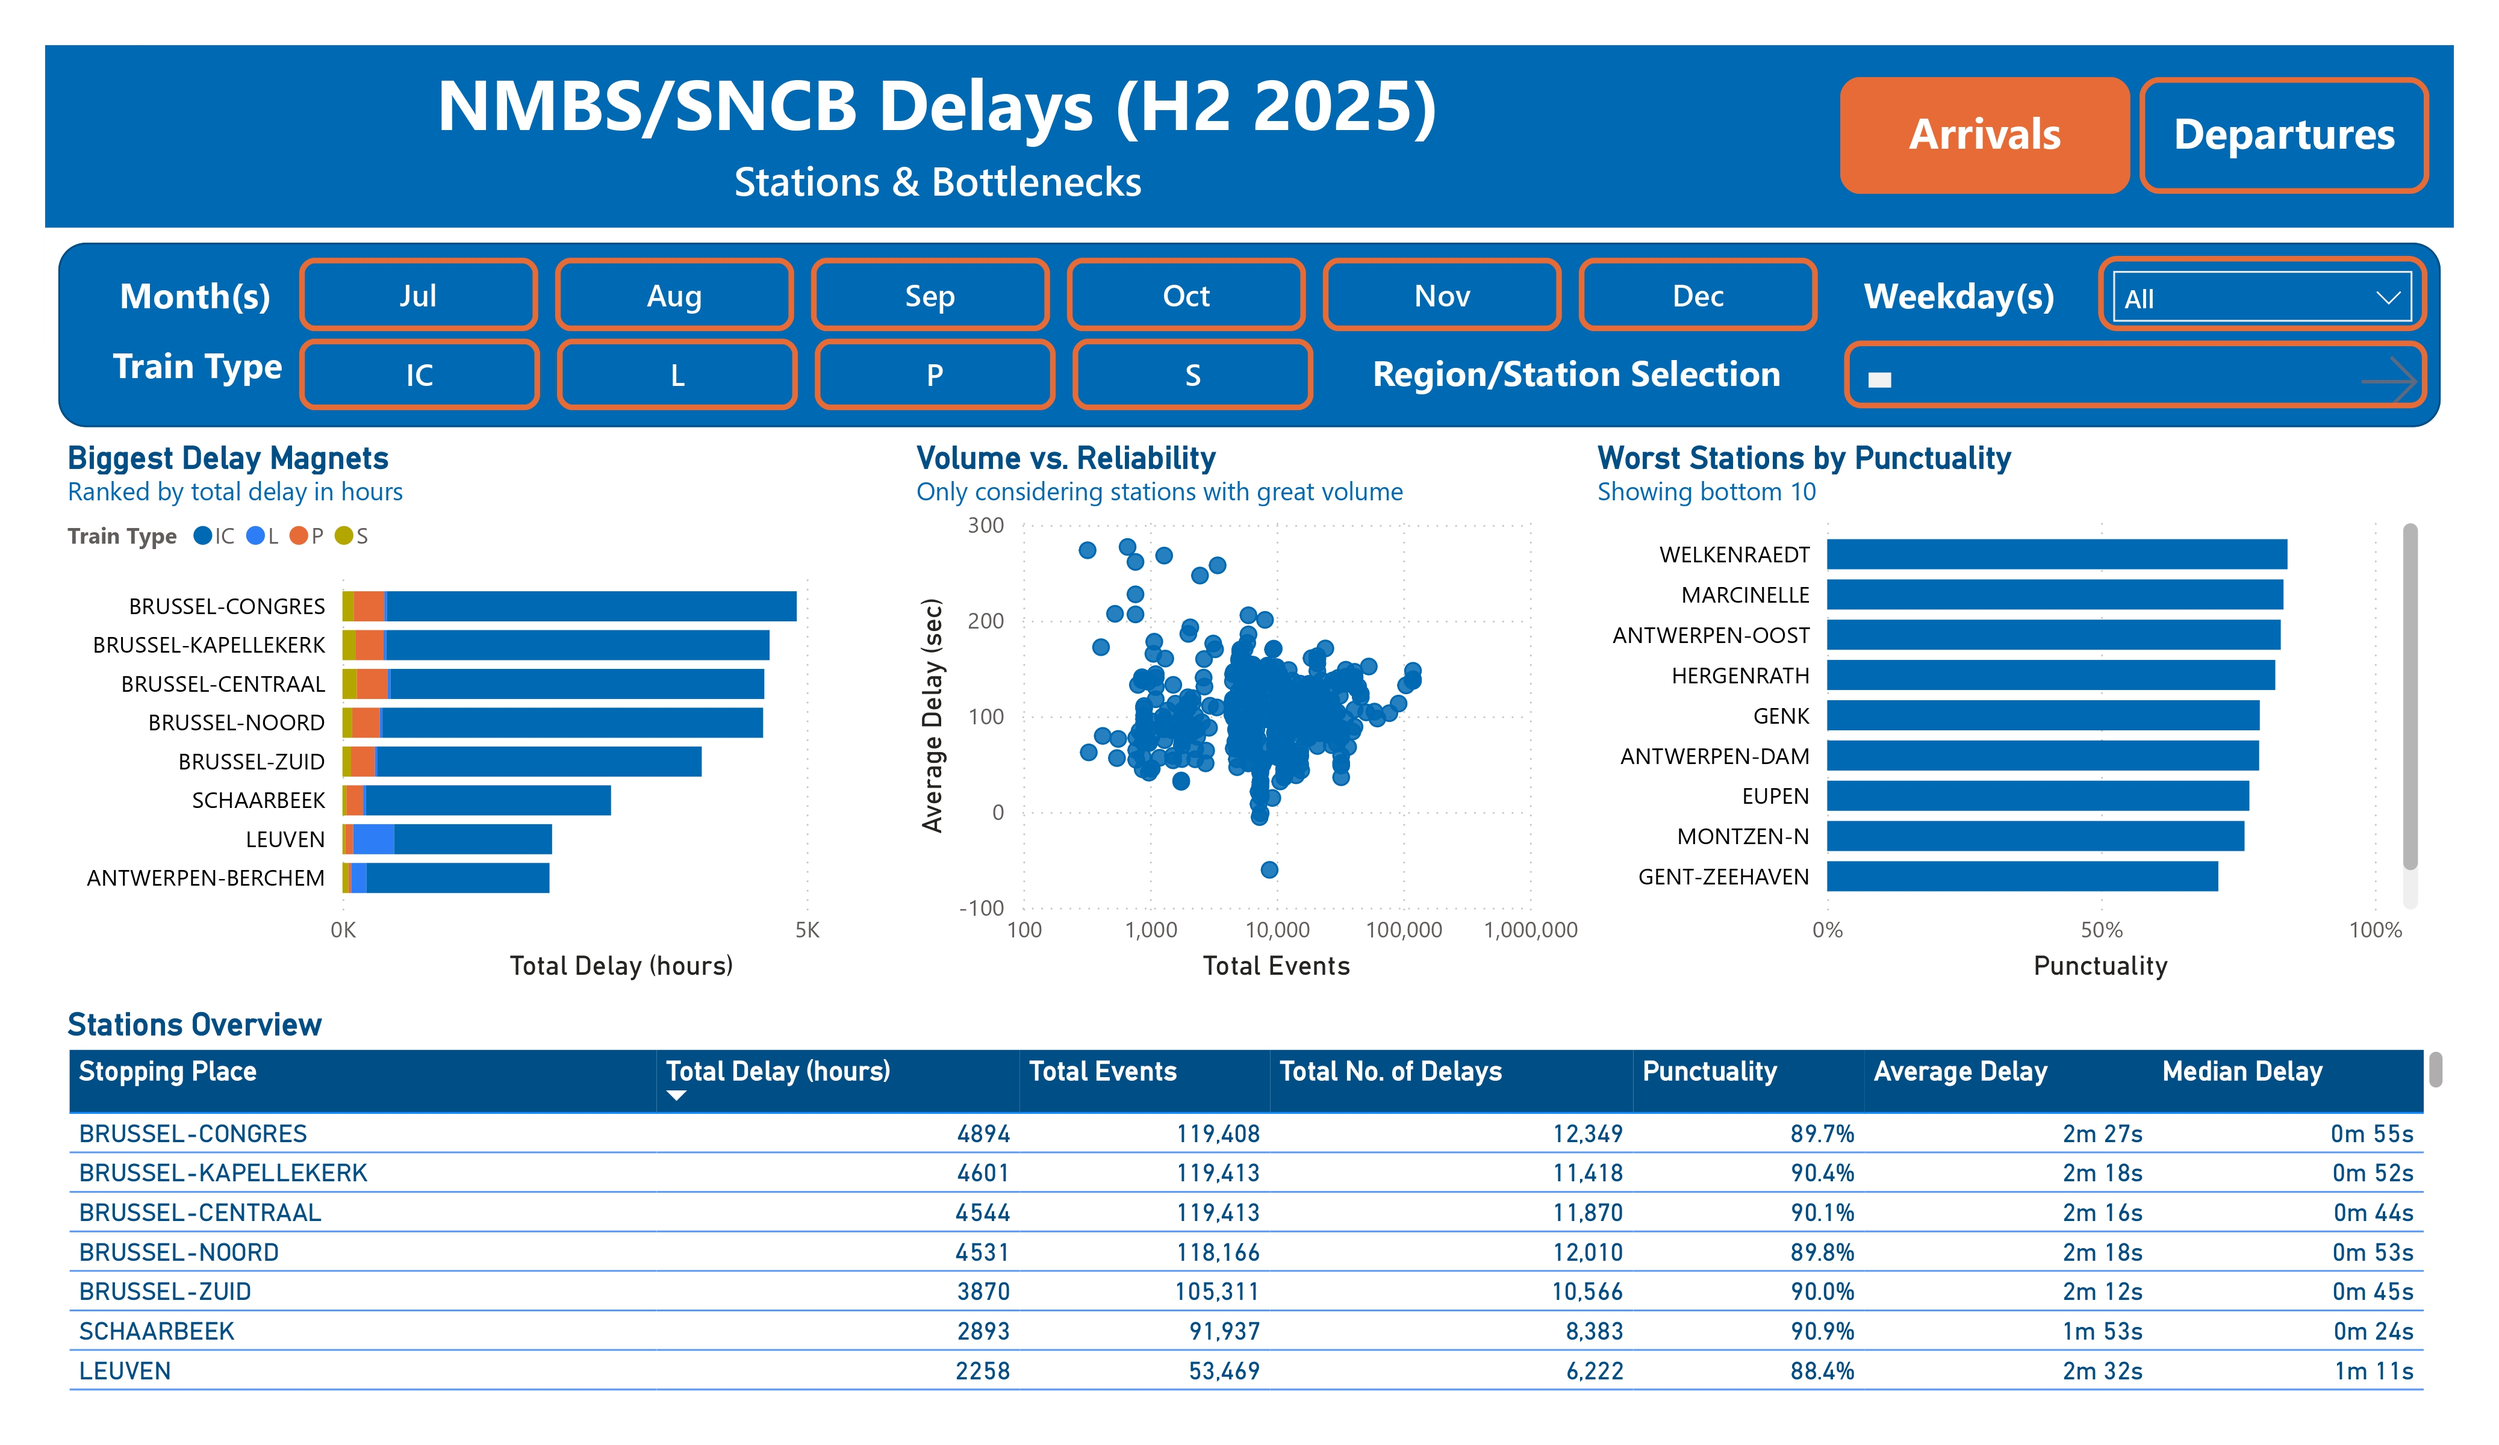
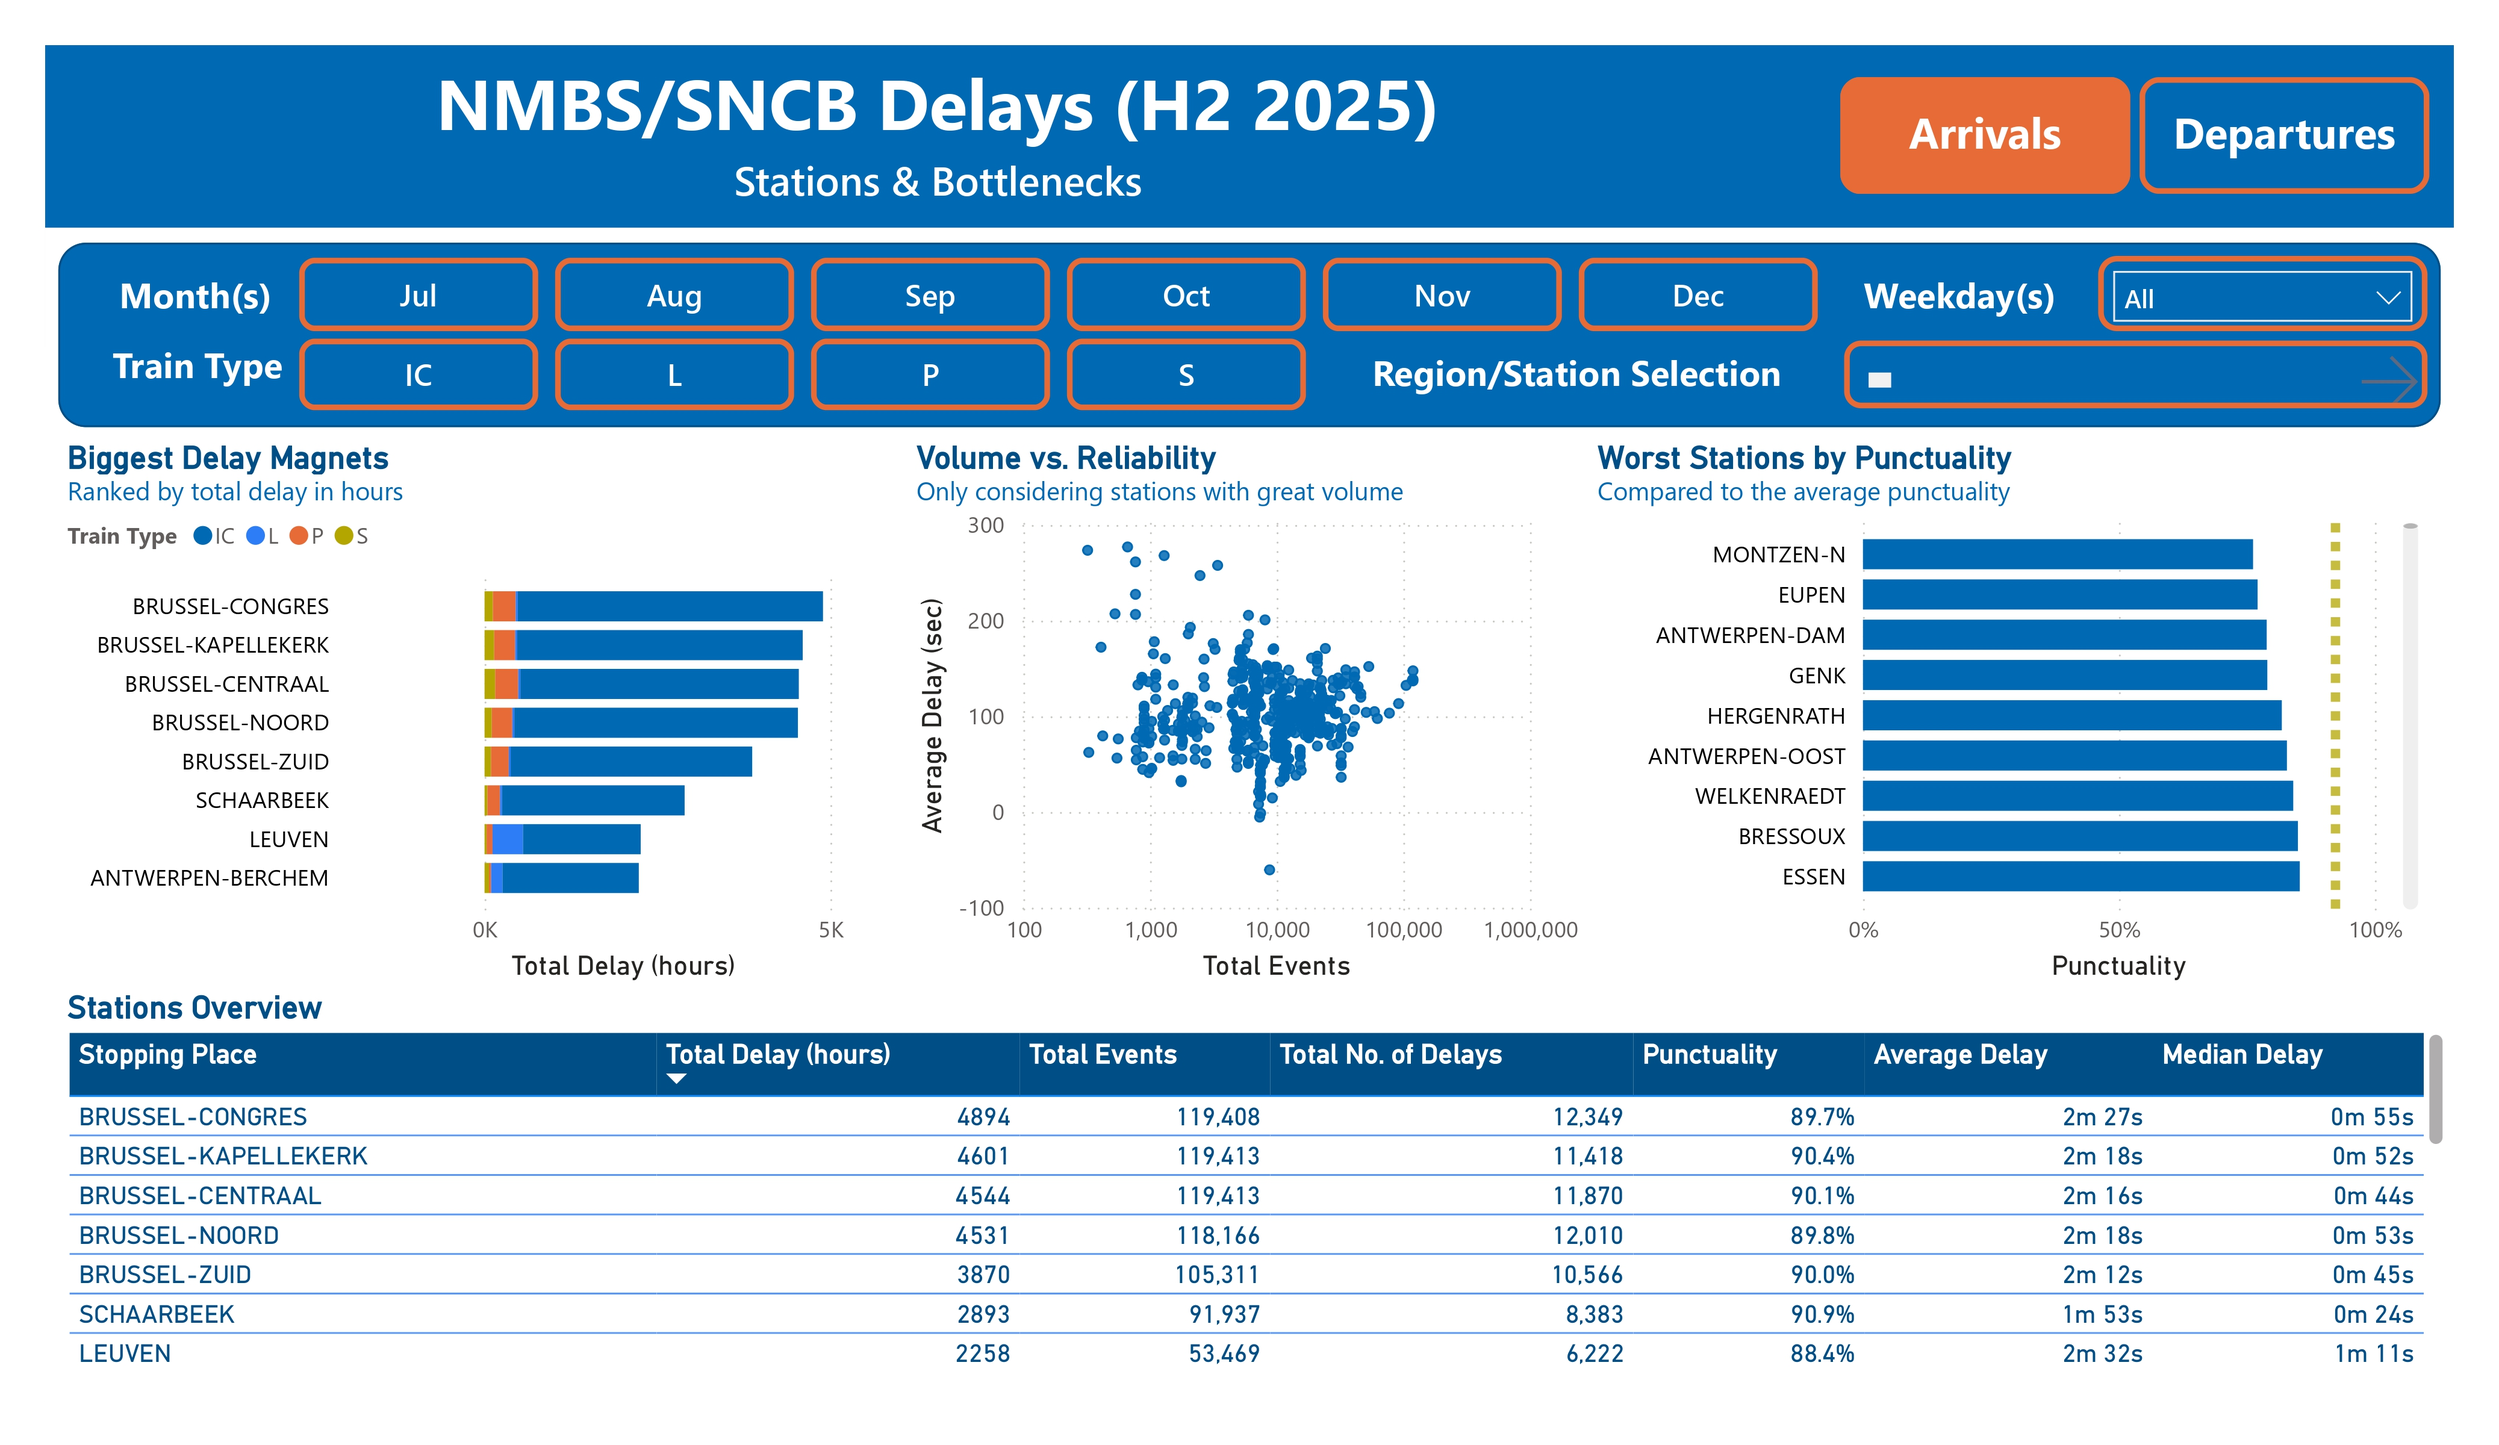
Slight changes to NMBS dashboard and README

diff --git a/Infrabel_Punctuality/README.md b/Infrabel_Punctuality/README.md
@@ -13,6 +13,13 @@ The goal is to move beyond simple delay counts and answer:
 
 The project focuses on dimensional modeling, advanced DAX, and analytical storytelling in Power BI.
 
+## 📥 Data Source
+
+Data is sourced from the official [Infrabel Open Data portal](https://opendata.infrabel.be/explore/), which provides public access to Belgian railway punctuality and operational metrics.
+
+**Monthly data files:** Access individual monthly punctuality reports at [Infrabel Monthly raw punctuality data files](https://opendata.infrabel.be/explore/dataset/stiptheid-gegevens-maandelijksebestanden/table/?sort=mois).
+
+
 ---
 
 ## 📷 Dashboard Preview
